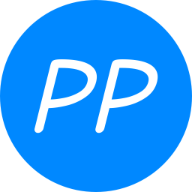
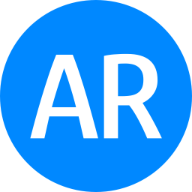
Update

Changed region(s): [[0.1562, 0.2812, 0.8438, 0.75]]

diff --git a/index.html b/index.html
@@ -4,7 +4,7 @@
     <meta charset="UTF-8" />
     <meta http-equiv="X-UA-Compatible" content="IE=edge" />
     <meta name="viewport" content="width=device-width, initial-scale=1.0" />
-    <title>Pemrograman Permainan UBL</title>
+    <title>Augmented Reality UBL</title>
     <!-- favicon -->
     <link rel="apple-touch-icon" sizes="180x180" href="imgs/ico/apple-touch-icon.png" />
     <link rel="icon" type="image/png" sizes="32x32" href="imgs/ico/favicon-32x32.png" />
@@ -52,7 +52,7 @@
           >
         </p>
         <p class="lh-1 pt-2">
-          Website ini merupakan kumpulan materi matakuliah Pemrograman Permainan di
+          Website ini merupakan kumpulan video praktek matakuliah Augmented Reality di
           <a
             href="https://fti.budiluhur.ac.id/"
             class="text-decoration-none link-primary"
@@ -72,10 +72,10 @@
           Playlist YouTube:
           <a
             class="text-decoration-none link-primary"
-            href="https://www.youtube.com/playlist?list=PL2bBpVjrCBxQKm-_dkHQFPVXJX7oCNeS_"
+            href="https://youtube.com/playlist?list=PL2bBpVjrCBxQGEJVyaEqp4e67BOWa-ObK"
             target="_blank"
             rel="noopener"
-            >Pemrograman Permainan UBL</a
+            >Augmented Reality UBL</a
           >
         </p>
       </div>
@@ -83,7 +83,7 @@
       <div class="row">
         <div class="col-lg-4 col-md-6 col-sm-12">
           <div class="card mb-5 shadow-sm zo-effect">
-            <img src="imgs/thumb/P02.jpg" class="img-fluid" />
+            <img src="imgs/thumb/02.gif" class="img-fluid" />
             <div class="card-body">
               <div class="card-title">
                 <h2 class="d-block text-truncate">Assets, Scenes, Script</h2>
@@ -98,7 +98,7 @@
         <!-- PERTEMUAN 03 -->
         <div class="col-lg-4 col-md-6 col-sm-12">
           <div class="card mb-5 shadow-sm zo-effect">
-            <img src="imgs/thumb/P03.jpg" class="img-fluid" />
+            <img src="imgs/thumb/03.gif" class="img-fluid" />
             <div class="card-body">
               <div class="card-title">
                 <h2 class="d-block text-truncate">Array, Class, Looping Function</h2>
@@ -113,7 +113,7 @@
         <!-- PERTEMUAN 04 -->
         <div class="col-lg-4 col-md-6 col-sm-12">
           <div class="card mb-5 shadow-sm zo-effect">
-            <img src="imgs/thumb/P04.jpg" class="img-fluid" />
+            <img src="imgs/thumb/04.gif" class="img-fluid" />
             <div class="card-body">
               <div class="card-title">
                 <h2 class="d-block text-truncate">
@@ -130,7 +130,7 @@
         <!-- PERTEMUAN 05 -->
         <div class="col-lg-4 col-md-6 col-sm-12">
           <div class="card mb-5 shadow-sm zo-effect">
-            <img src="imgs/thumb/P05.jpg" class="img-fluid" />
+            <img src="imgs/thumb/05.gif" class="img-fluid" />
             <div class="card-body">
               <div class="card-title">
                 <h2 class="d-block text-truncate">Intraksi Object</h2>
@@ -145,7 +145,7 @@
         <!-- PERTEMUAN 06 -->
         <div class="col-lg-4 col-md-6 col-sm-12">
           <div class="card mb-5 shadow-sm zo-effect">
-            <img src="imgs/thumb/P06.jpg" class="img-fluid" />
+            <img src="imgs/thumb/06.gif" class="img-fluid" />
             <div class="card-body">
               <div class="card-title">
                 <h2 class="d-block text-truncate">GUI Skin & Manipulasi Kamera</h2>
@@ -160,7 +160,7 @@
         <!-- PERTEMUAN 07 -->
         <div class="col-lg-4 col-md-6 col-sm-12">
           <div class="card mb-5 shadow-sm zo-effect">
-            <img src="imgs/thumb/P07.jpg" class="img-fluid" />
+            <img src="imgs/thumb/07.gif" class="img-fluid" />
             <div class="card-body">
               <div class="card-title">
                 <h2 class="d-block text-truncate">
@@ -177,7 +177,7 @@
         <!-- PERTEMUAN 08 -->
         <div class="col-lg-4 col-md-6 col-sm-12">
           <div class="card mb-5 shadow-sm zo-effect">
-            <img src="imgs/thumb/P08.jpg" class="img-fluid" />
+            <img src="imgs/thumb/09.gif" class="img-fluid" />
             <div class="card-body">
               <div class="card-title">
                 <h2 class="d-block text-truncate">Translate() dan Raycast()</h2>
@@ -192,7 +192,7 @@
         <!-- PERTEMUAN 09 -->
         <div class="col-lg-4 col-md-6 col-sm-12">
           <div class="card mb-5 shadow-sm zo-effect">
-            <img src="imgs/thumb/P09.jpg" class="img-fluid" />
+            <img src="imgs/thumb/10-11.gif" class="img-fluid" />
             <div class="card-body">
               <div class="card-title">
                 <h2 class="d-block text-truncate">Shooting Target</h2>
@@ -207,7 +207,7 @@
         <!-- PERTEMUAN 10 -->
         <div class="col-lg-4 col-md-6 col-sm-12">
           <div class="card mb-5 shadow-sm zo-effect">
-            <img src="imgs/thumb/P10.jpg" class="img-fluid" />
+            <img src="imgs/thumb/12.gif" class="img-fluid" />
             <div class="card-body">
               <div class="card-title">
                 <h2 class="d-block text-truncate">Simple Animation</h2>
@@ -220,7 +220,7 @@
           </div>
         </div>
         <!-- PERTEMUAN 11 -->
-        <div class="col-lg-4 col-md-6 col-sm-12">
+        <!-- <div class="col-lg-4 col-md-6 col-sm-12">
           <div class="card mb-5 shadow-sm zo-effect">
             <img src="imgs/thumb/P11.jpg" class="img-fluid" />
             <div class="card-body">
@@ -233,9 +233,9 @@
               <a href="materi/pertemuan11.html" class="stretched-link"></a>
             </div>
           </div>
-        </div>
+        </div> -->
         <!-- PERTEMUAN 12 -->
-        <div class="col-lg-4 col-md-6 col-sm-12">
+        <!-- <div class="col-lg-4 col-md-6 col-sm-12">
           <div class="card mb-5 shadow-sm zo-effect">
             <img src="imgs/thumb/P12.jpg" class="img-fluid" />
             <div class="card-body">
@@ -248,9 +248,9 @@
               <a href="materi/pertemuan12.html" class="stretched-link"></a>
             </div>
           </div>
-        </div>
+        </div> -->
         <!-- PERTEMUAN 13 -->
-        <div class="col-lg-4 col-md-6 col-sm-12">
+        <!-- <div class="col-lg-4 col-md-6 col-sm-12">
           <div class="card mb-5 shadow-sm zo-effect">
             <img src="imgs/thumb/P13.jpg" class="img-fluid" />
             <div class="card-body">
@@ -263,7 +263,7 @@
               <a href="materi/pertemuan13.html" class="stretched-link"></a>
             </div>
           </div>
-        </div>
+        </div> -->
       </div>
       <!-- Back to top button -->
       <button type="button" class="btn btn-primary btn-floating btn-lg" id="btn-back-to-top">

diff --git a/materi/pertemuan2.html b/materi/pertemuan2.html
@@ -39,16 +39,16 @@
               >
             </li>
             <li class="breadcrumb-item active" aria-current="page">
-              <span class="me-2"><i class="bi bi-collection-fill"></i></span>Materi Pertemuan 02
+              <span class="me-2"><i class="bi bi-collection-fill"></i></span>Praktek Latihan 02
             </li>
           </ol>
         </nav>
       </div>
       <div class="row justify-content-center mb-2 mt-5 text-center lh-1">
-        <p class="fs-2">Assets, Scenes, dan Script</p>
+        <p class="fs-2">Praktek Latihan 02</p>
         <p class="fs-6">1811502754 - Muhammad Arya Java</p>
       </div>
-      <div class="row align-items-center mb-5 mt-3">
+      <div class="row align-items-center mb-5 mt-">
         <!-- Content -->
         <div class="col-lg-10 d-block order-2">
           <div class="mx-auto mt-5">
@@ -57,15 +57,15 @@
               <b class="border-bottom border-1 border-dark">Video Tutorial</b>
             </p>
             <p class="text-center lh-1 fs-6 mt-0 pt-0">
-              <a href="https://youtu.be/LnSmFwwl3uA" class="link-primary text-decoration-none lh-1"
+              <a href="https://youtu.be/iVPdKn3bnmw" class="link-primary text-decoration-none lh-1"
                 ><span class="me-2"><i class="bi-link"></i></span>Link Youtube</a
               >
             </p>
           </div>
           <div class="d-flex justify-content-center mb-5 ratio ratio-16x9">
             <iframe
-              src="https://www.youtube.com/embed/LnSmFwwl3uA?&autoplay=1"
-              title="Materi Pertemuan 02"
+              src="https://www.youtube.com/embed/iVPdKn3bnmw?&autoplay=1"
+              title="Praktek Latihan 02"
               allow="accelerometer; autoplay; clipboard-write; encrypted-media; gyroscope; picture-in-picture"
               allowfullscreen
             ></iframe>

diff --git a/template/header.html b/template/header.html
@@ -1,6 +1,6 @@
 <footer class="d-flex flex-column justify-content-around align-items-center py-3 border-bottom">
   <div class="row text-center">
-      <p class="fs-1 mb-1">Materi Pemrograman Permainan</p>
+      <p class="fs-1 mb-1">Video Praktek Augmented Reality</p>
   </div>
   <div class="row justify-content-center text-center fs-5">
       <a

diff --git a/README.md b/README.md
@@ -1,7 +1,7 @@
 # Web Pemrograman Permainan
 
-Kumpulan materi dari matakuliah Pemrograman Permainan di [Universitas Budi Luhur](https://www.budiluhur.ac.id/).
+Website ini merupakan kumpulan materi matakuliah Augmented Reality dari [Fakultas Teknologi Informasi](https://fti.budiluhur.ac.id/) [Universitas Budi Luhur](https://www.budiluhur.ac.id/).
 
-Link Website <https://aryajava.github.io/PemrogramanPermainan/>
+Link Website <https://aryajava.github.io/AugmentedReality/>
 
 > 1811502754 - Muhammad Arya Java
